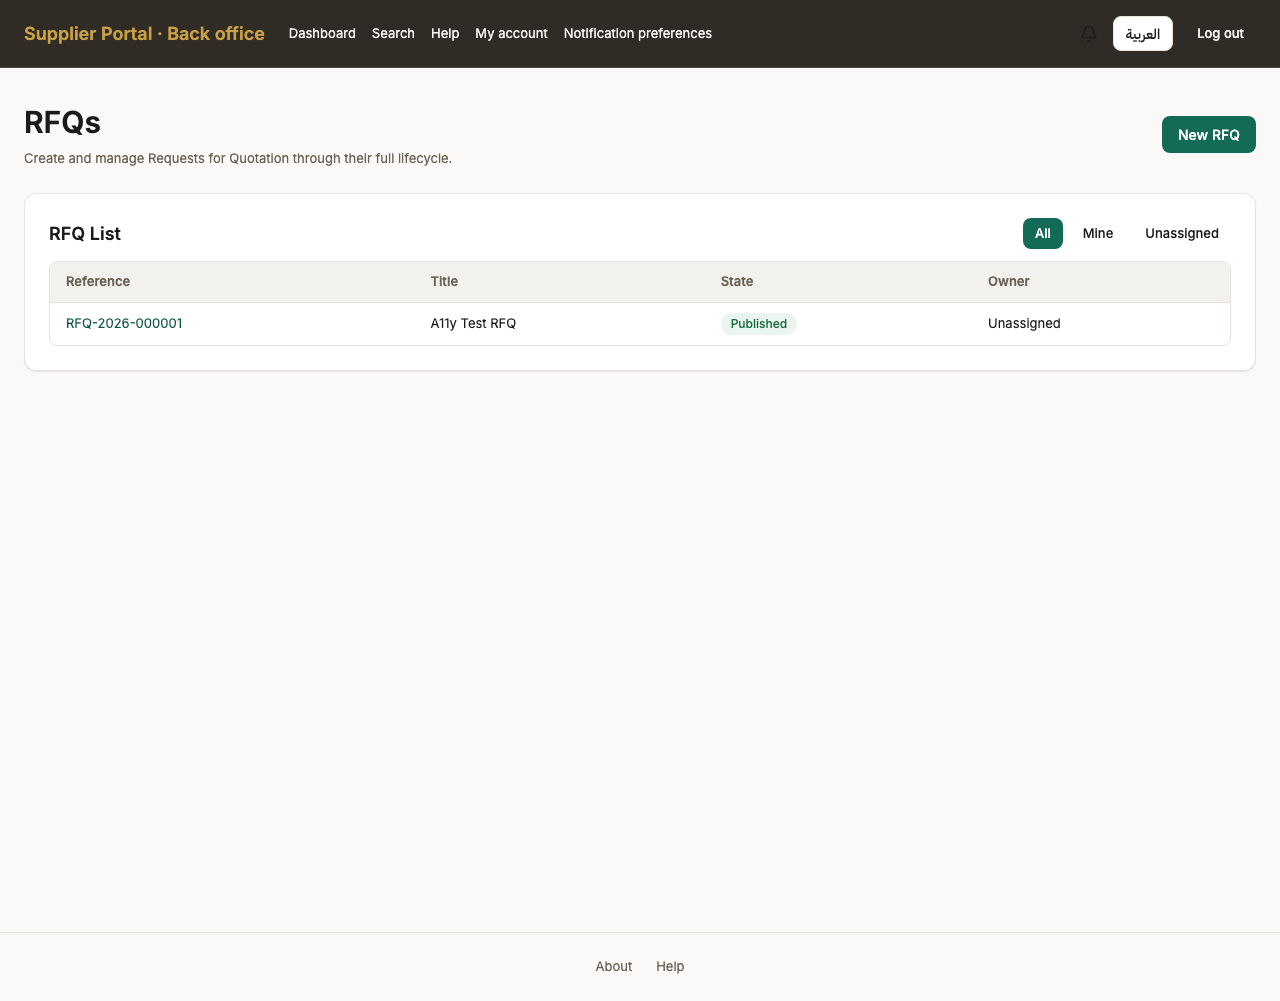
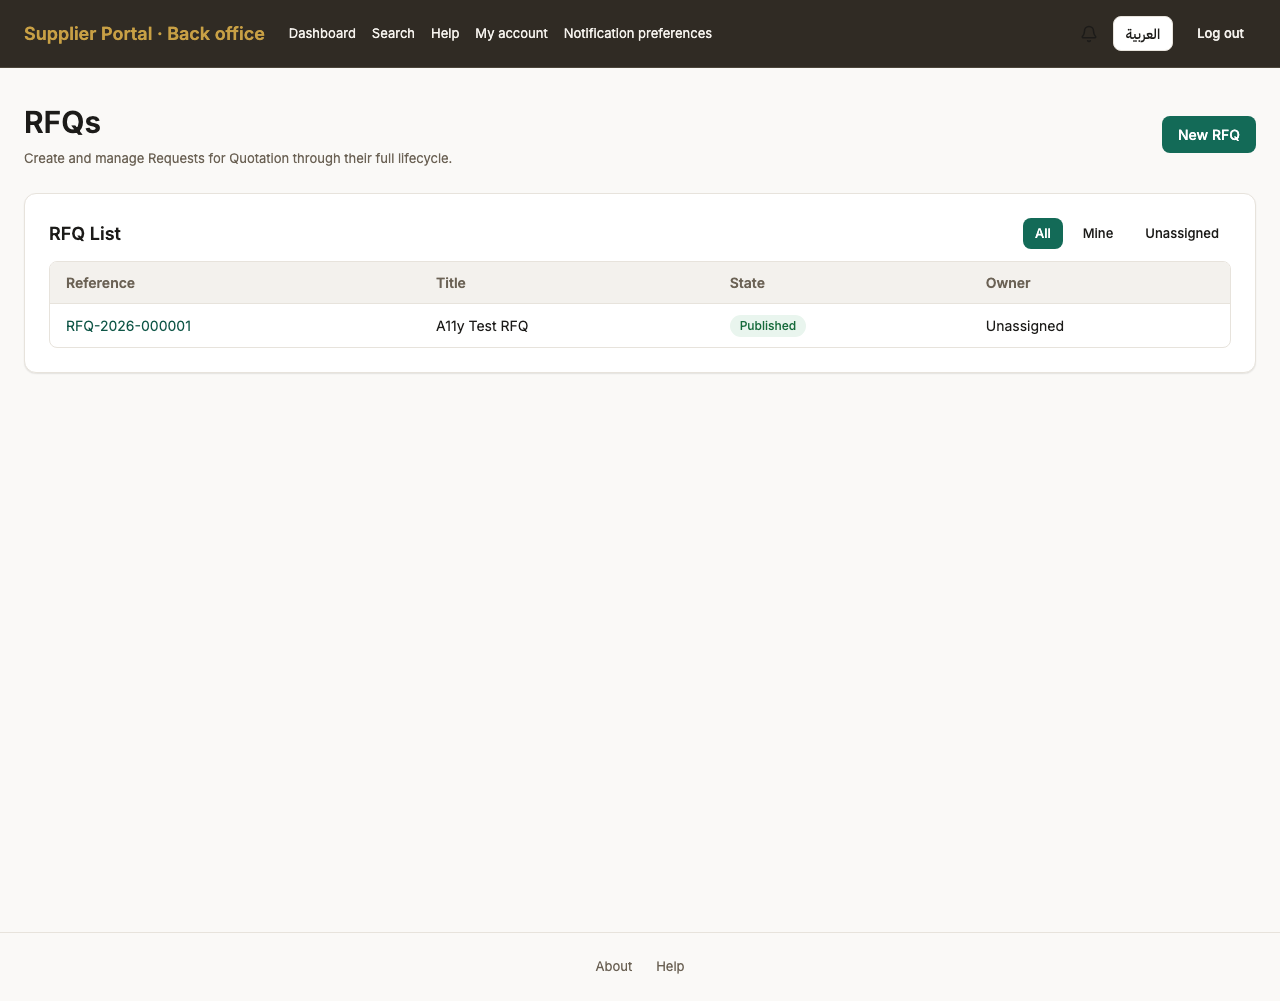
design(system): the two densities, as one variable rather than 191 edits (#142)
Phase 2.3, and the half of the system pass that was still only a document.

RECONCILIATION.md decided the two densities and nothing applied them: 14px for a back-office officer
scanning tables all day, 16px for a supplier reading a legal form a few times a year under deadline. The
audit found 13px as the most common size on all twelve screens it measured - for both audiences at once.

The cause was one line. Table set --text-body-sm on every table in the product, and tables are the
dominant content on 33 of the 65 screens, so a single component put all of them below the body floor.
Field's label was the other one: a label names a control, so it is not the secondary text 13px is for.

Both now read --density-body, which the supplier shell raises to 16px and everything else leaves at 14px.
A variable rather than a sweep because the size is a property of the AUDIENCE, not of each of the 191
places text is sized - and because a variable can be checked, which a sweep cannot. The default is the
back-office size so that sign in, register and accept-an-invitation, which render outside both shells,
resolve to a decision rather than falling back to the browser's 16px by accident.

13px keeps its job and the test says so: a hint, a caption, a dialog description, the heading's subtitle -
secondary text beside a value, never the value itself. Removing the token would have been the opposite
mistake.
[…]

Changed region(s): [[0.0312, 0.2787, 0.9688, 0.3716]]

diff --git a/src/frontend/src/styles/densityConformance.test.ts b/src/frontend/src/styles/densityConformance.test.ts
@@ -1,0 +1,59 @@
+import { describe, expect, it } from 'vitest'
+import { readFileSync } from 'node:fs'
+import { resolve } from 'node:path'
+
+/**
+ * The two densities, and the one variable that carries them.
+ *
+ * <p><b>What the audit measured.</b> 13px was the most common size on all twelve screens it looked at —
+ * for both audiences at once, though `RECONCILIATION.md` had already decided they differ: 14px for a
+ * back-office officer scanning tables all day, 16px for a supplier reading a legal form under deadline.
+ * The rules existed and nothing applied them.</p>
+ *
+ * <p><b>Why one variable rather than a sweep of 191 sites.</b> The size is a property of the audience,
+ * not of each place text is written. A shell declares which audience it serves; the shared content
+ * components read `--density-body`. That also means this can be checked, which a sweep could not be.</p>
+ */
+const SRC = resolve(process.cwd(), 'src')
+const read = (relative: string) => readFileSync(resolve(SRC, relative), 'utf8')
+
+describe('the two densities are declared, and something reads them', () => {
+  const css = read('index.css')
+
+  it('defines the variable, with the back-office size as the default', () => {
+    // The default matters: sign in, register and accept-an-invitation render outside both shells, and a
+    // variable that resolves to nothing there would drop the declaration and fall back to the browser's
+    // 16px by accident rather than by decision.
+    expect(css).toMatch(/:root\s*\{[^}]*--density-body:\s*var\(--text-body\)/)
+  })
+
+  it('gives the supplier its own, larger size', () => {
+    expect(css).toMatch(/\.msp-density-supplier\s*\{[^}]*--density-body:\s*var\(--text-body-lg\)/)
+  })
+
+  it('the supplier shell claims that density, and the back office does not', () => {
+    expect(read('shells/SupplierShell.tsx')).toContain('msp-density-supplier')
+    // Not a style choice - a check that the default is doing the work rather than both shells declaring
+    // and one of them drifting later.
+    expect(read('shells/BackOfficeShell.tsx')).not.toContain('msp-density-')
+  })
+
+  it('the content components that decide what "body text" looks like read it', () => {
+    // Table is the one that mattered: it is the dominant content on 33 of the 65 screens and it set all
+    // of them below the body floor in a single line.
+    expect(read('components/ui/Table.tsx')).toContain('text-[length:var(--density-body)]')
+    expect(read('components/ui/Field.tsx')).toContain('text-[length:var(--density-body)]')
+  })
+
+  it('13px is still available for what it is actually for', () => {
+    // Secondary text beside a value - a hint, a caption, a dialog description - not the value itself.
+    // Removing the token would be the opposite mistake, so this asserts it survives.
+    expect(read('styles/tokens.css')).toContain('--text-body-sm')
+    expect(read('components/ui/ListScreen.tsx')).toContain('var(--text-body-sm)')
+  })
+
+  it('the check can fail', () => {
+    expect(/\.msp-density-supplier\s*\{[^}]*--density-body/.test('.msp-density-supplier { --density-body: var(--text-body-lg); }')).toBe(true)
+    expect(/\.msp-density-supplier\s*\{[^}]*--density-body/.test('.msp-density-supplier { color: red; }')).toBe(false)
+  })
+})

diff --git a/src/frontend/src/index.css b/src/frontend/src/index.css
@@ -14,6 +14,29 @@
 @import "tailwindcss";
 @import "./styles/tokens.css";
 
+/*
+  The two densities, as one variable.
+
+  RECONCILIATION.md decided them and nothing applied them: the back office is a workspace read all day
+  and its body floor is 14px; the supplier is an outside company reading a legal form a few times a year
+  under deadline, and its body is 16px. The audit found 13px as the most common size on all twelve
+  screens it measured, for both audiences at once.
+
+  A variable rather than a sweep, because the size is a property of the AUDIENCE, not of each of the 191
+  places text is sized. A shell declares which one it is; shared content components read this. 13px keeps
+  its job - secondary text beside a value, never the value itself.
+
+  The default is the back-office size, so a screen outside either shell (sign in, register, accept an
+  invitation) still resolves rather than inheriting nothing.
+*/
+:root {
+  --density-body: var(--text-body);
+}
+
+.msp-density-supplier {
+  --density-body: var(--text-body-lg);
+}
+
 * {
   box-sizing: border-box;
 }

diff --git a/src/frontend/src/shells/SupplierShell.tsx b/src/frontend/src/shells/SupplierShell.tsx
@@ -28,8 +28,13 @@ export function SupplierShell({ children }: Props) {
     window.location.href = '/login'
   }
 
+  // `msp-density-supplier` sets --density-body to 16px for everything inside this shell.
+  // RECONCILIATION.md's reasoning: this reader is an outside company completing a legal application a
+  // few times a year under deadline, not an officer scanning tables all day. The back office keeps the
+  // 14px default, so only one of the two shells has to say anything.
+
   return (
-    <div className="flex min-h-screen flex-col" style={{ backgroundColor: 'var(--color-bg-app)' }}>
+    <div className="msp-density-supplier flex min-h-screen flex-col" style={{ backgroundColor: 'var(--color-bg-app)' }}>
       {/* SCR-045: above the header, so it is chrome rather than page content. */}
       <ErpStatusBanner />
       <header

diff --git a/src/frontend/src/components/ui/Table.tsx b/src/frontend/src/components/ui/Table.tsx
@@ -20,7 +20,10 @@ export function Table({ children, caption, maxHeight }: { children: ReactNode; c
       className="w-full overflow-auto rounded-[var(--radius-md)]"
       style={{ border: '1px solid var(--color-border)', maxHeight }}
     >
-      <table className="w-full border-collapse text-[length:var(--text-body-sm)]">
+      {/* The one line that made 13px the most common size on every screen the audit measured: tables are
+          the dominant content on 33 of the 65 screens, and this set all of them below the body floor.
+          `--density-body` is 14px in the back office and 16px for a supplier. */}
+      <table className="w-full border-collapse text-[length:var(--density-body)]">
         {caption ? <caption className="sr-only">{caption}</caption> : null}
         {children}
       </table>

diff --git a/src/frontend/src/components/ui/Field.tsx b/src/frontend/src/components/ui/Field.tsx
@@ -21,7 +21,7 @@ export function Field({ label, error, hint, required, children }: FieldProps) {
     <div className="flex flex-col gap-1.5">
       <Label.Root
         htmlFor={id}
-        className="text-[length:var(--text-body-sm)] font-[var(--fw-medium)]"
+        className="text-[length:var(--density-body)] font-[var(--fw-medium)]"
         style={{ color: 'var(--color-text-secondary)' }}
       >
         {label}
